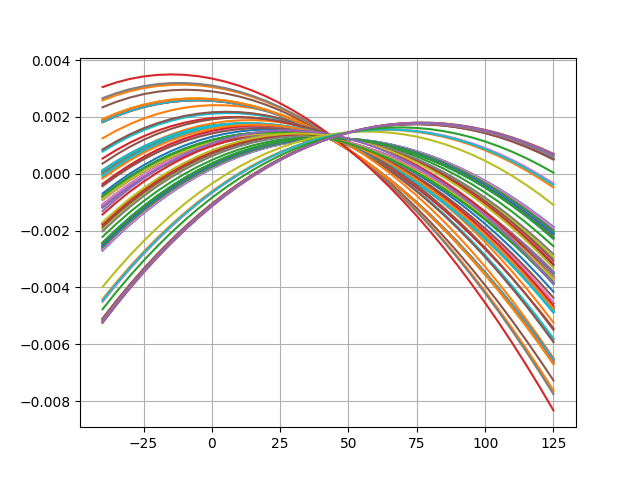
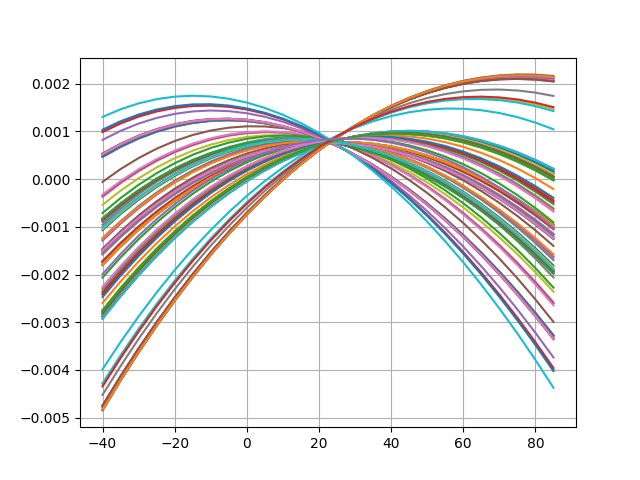
updated dc_bandgap_temperature results and testbench

diff --git a/doc/bandgap/dc_bandgap_temperature.md b/doc/bandgap/dc_bandgap_temperature.md
@@ -4,9 +4,9 @@ Simulation results for dc_bandgap_temperature
 
 ## Pre-Layout Simulation
 
-|       | min       | max       | mean      | std      |
-|:------|:----------|:----------|:----------|:---------|
-| dv_dt | 20.70302u | 46.48845u | 31.59613u | 7.07938u |
+|         | min       | max       | mean      | std      |
+|:--------|:----------|:----------|:----------|:---------|
+| dv_dt   | 32.53598u | 58.57123u | 42.82626u | 7.88363u |
 
 ![dv_dt](pic/sim_sch/dc_bandgap_temperature/dv_dt.png)
 
